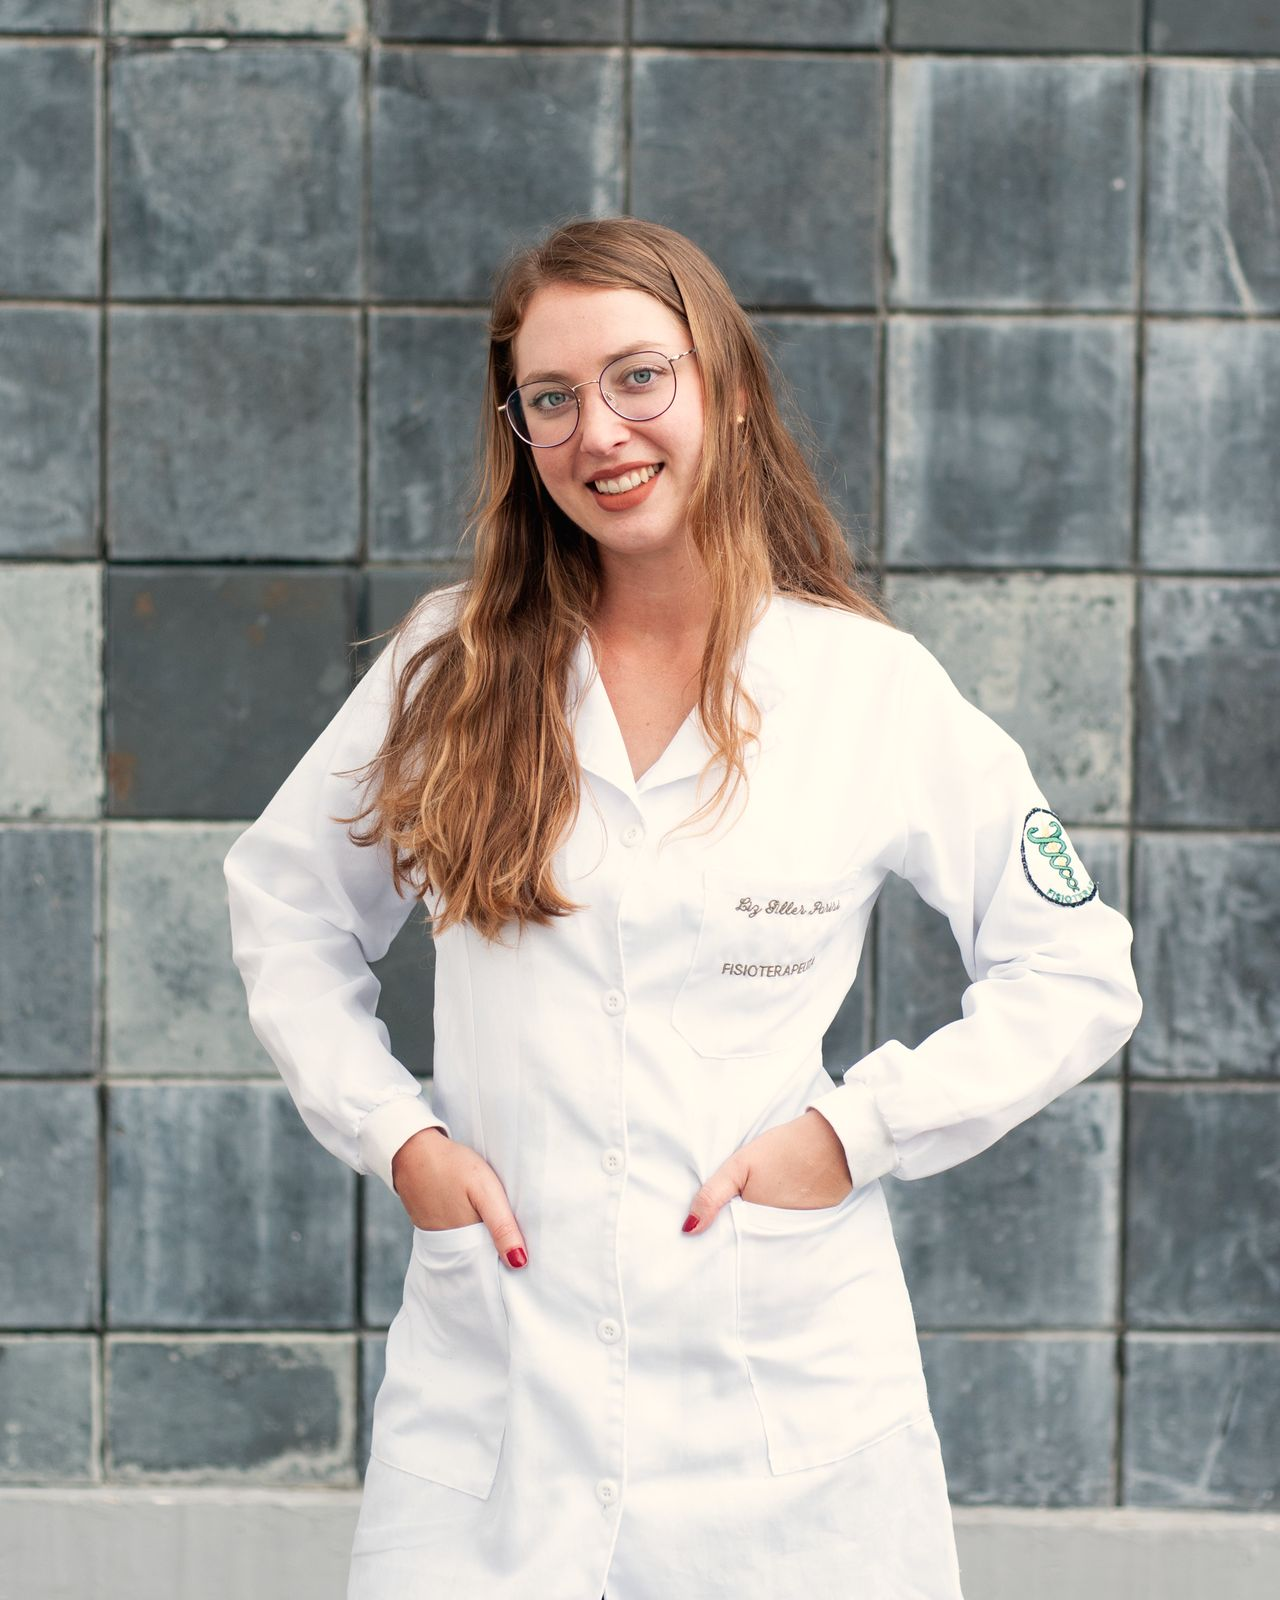
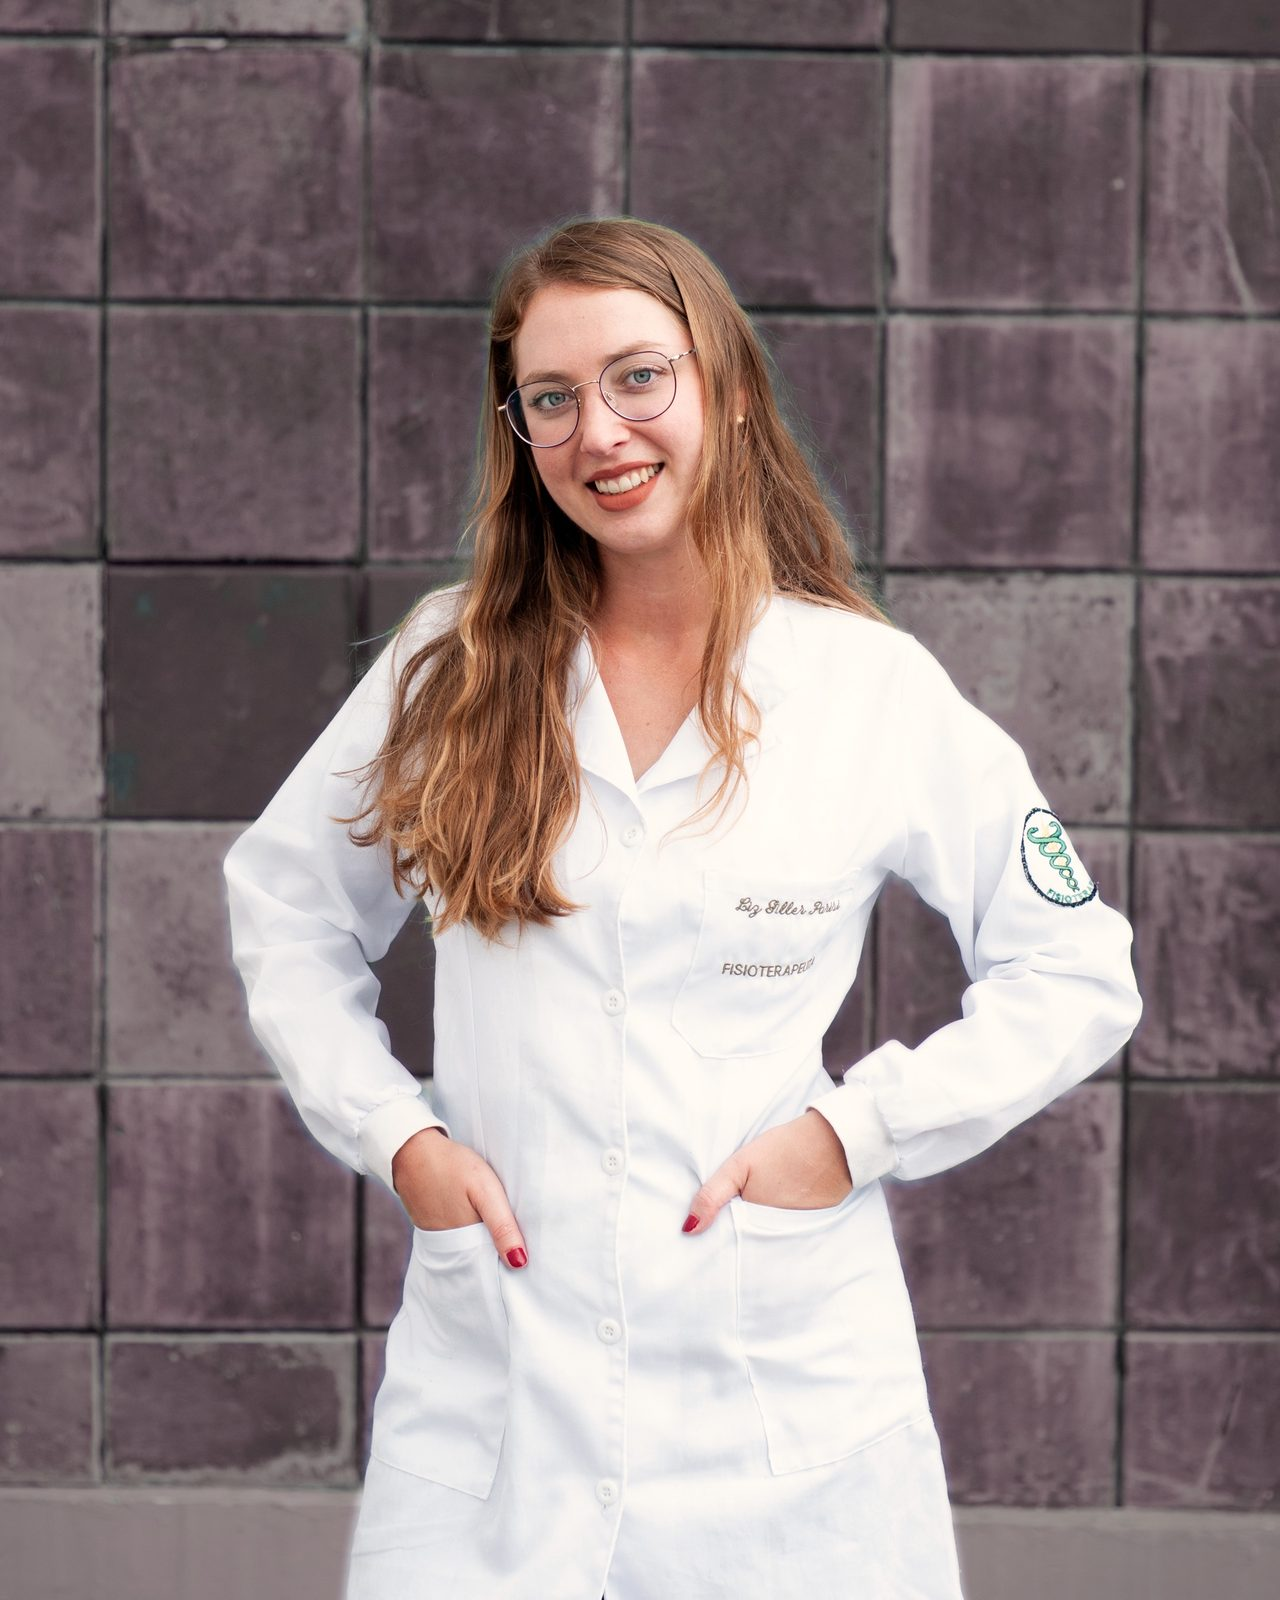
Revisão via Claude Desktop 2026-10-16 14:35

diff --git a/assets/css/style.css b/assets/css/style.css
@@ -476,6 +476,12 @@ p .link-seta, li .link-seta { min-height: var(--toque-min); }
 .heroi__cartao { position: relative; border-radius: var(--raio-foto); width: 100%; height: clamp(260px, 42svh, 360px); }
 .heroi__cartao picture, .heroi__cartao img { width: 100%; height: 100%; }
 .heroi__cartao img { object-fit: cover; object-position: 50% 12%; }
+/* 16/10: a base da foto dissolve no tecido do fundo (sem retângulo colado) */
+.heroi__cartao picture {
+  display: block;
+  -webkit-mask-image: linear-gradient(to bottom, #000 0%, #000 62%, rgba(0, 0, 0, .55) 84%, rgba(0, 0, 0, 0) 100%);
+  mask-image: linear-gradient(to bottom, #000 0%, #000 62%, rgba(0, 0, 0, .55) 84%, rgba(0, 0, 0, 0) 100%);
+}
 .heroi__chip { position: absolute; top: var(--space-4); left: var(--space-4); }
 .heroi__legenda {
   position: absolute;
@@ -483,7 +489,7 @@ p .link-seta, li .link-seta { min-height: var(--toque-min); }
   display: grid;
   gap: var(--space-1);
   padding: var(--space-8) var(--space-5) var(--space-5);
-  background: linear-gradient(to top, rgba(26, 23, 25, .88) 0%, rgba(26, 23, 25, .55) 55%, rgba(26, 23, 25, 0) 100%);
+  background: linear-gradient(to top, rgba(28, 22, 26, .72) 0%, rgba(28, 22, 26, .4) 55%, rgba(28, 22, 26, 0) 100%);
 }
 .heroi__legenda .rotulo { color: var(--accent-soft); }
 .heroi__nome { font-family: var(--fonte-titulo); font-size: 1.75rem; line-height: 1.05; color: var(--paper); }
